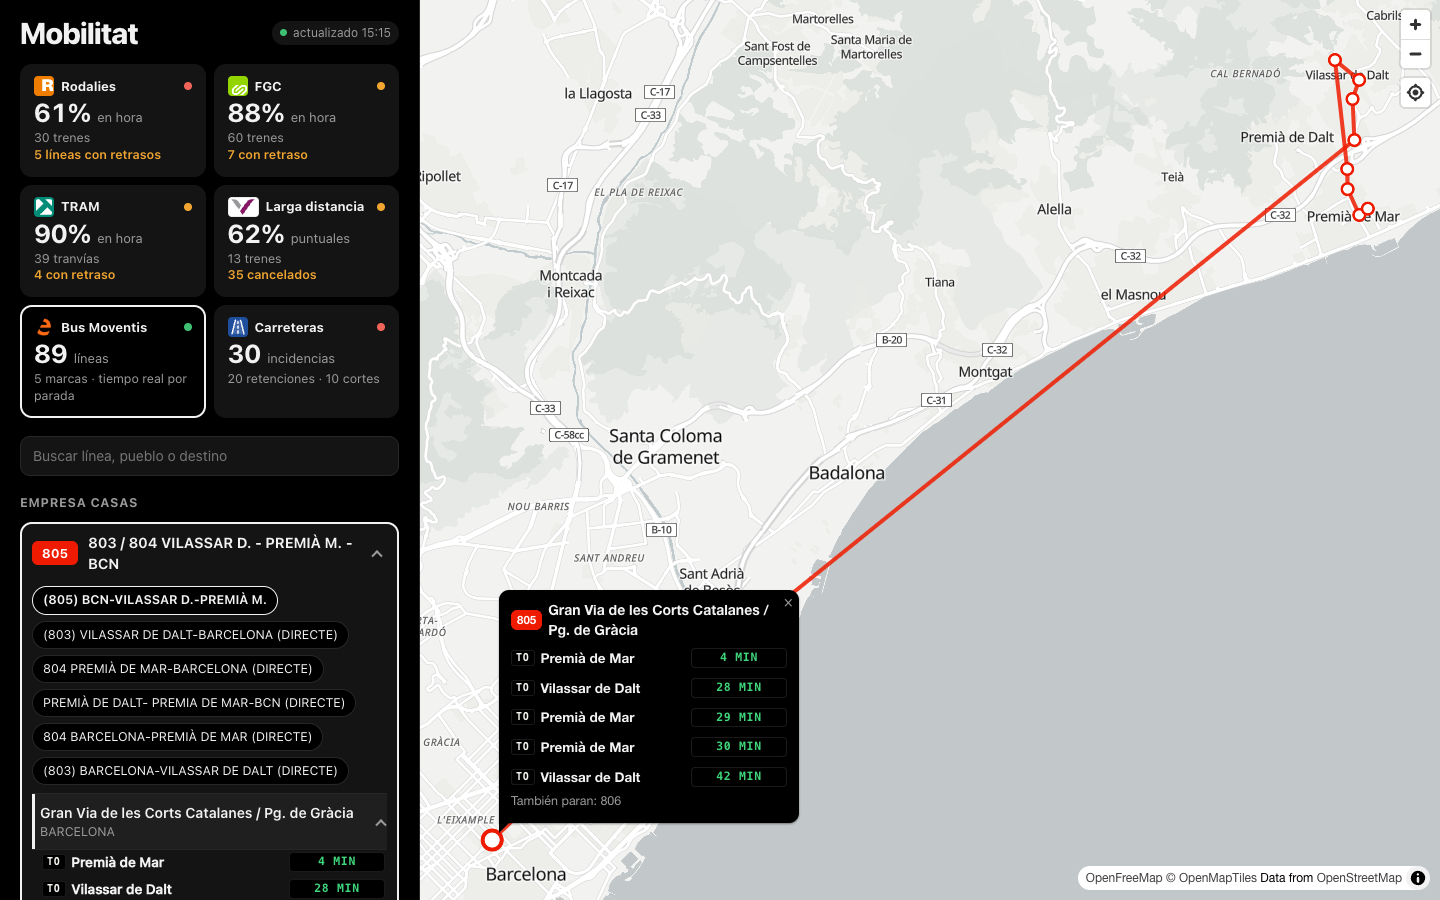
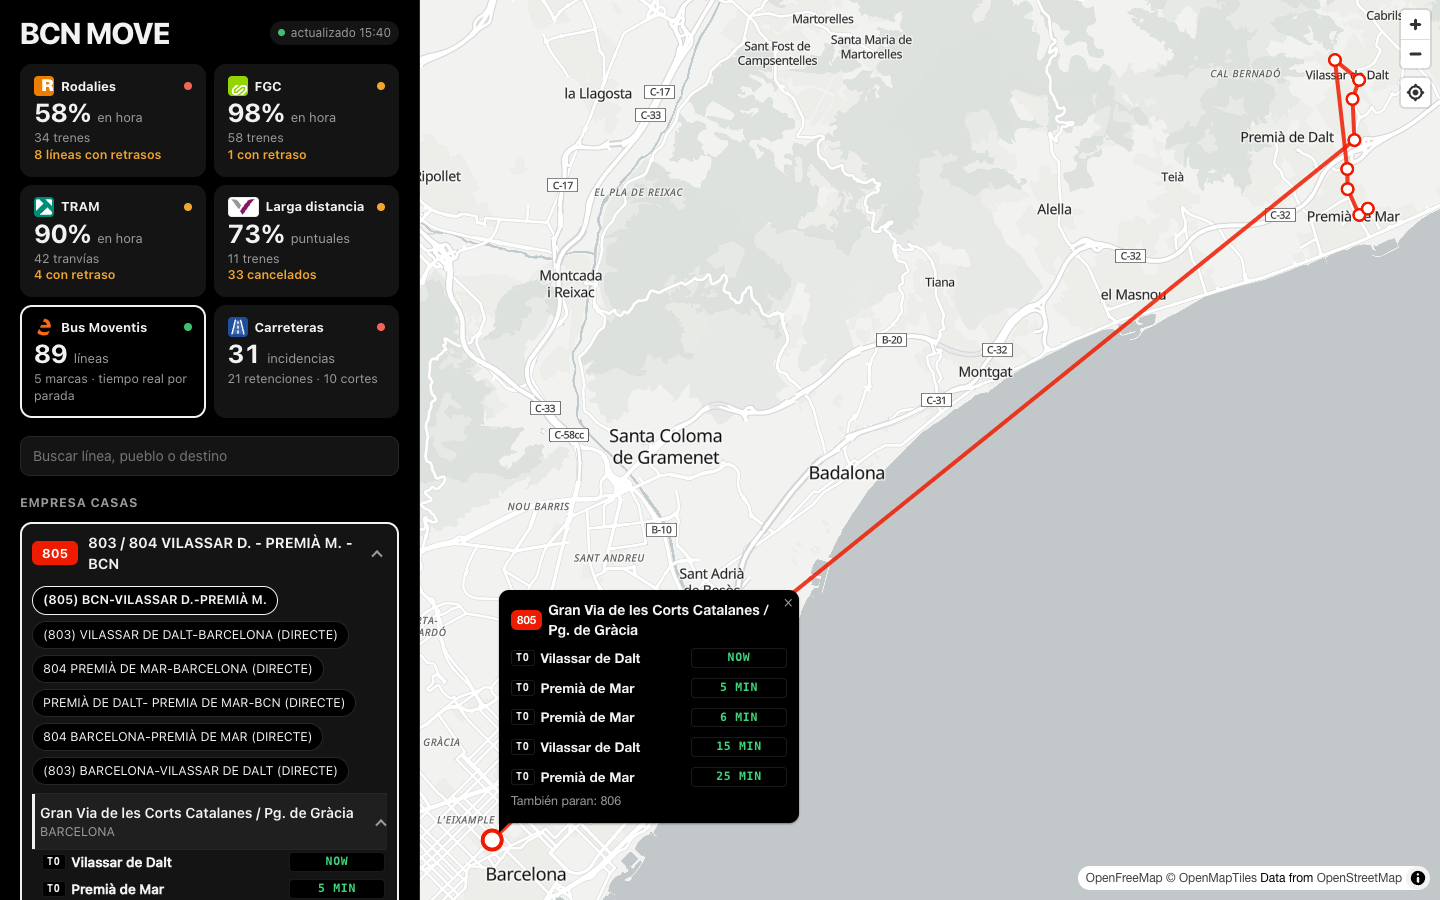
Cambia el nombre a BCN MOVE (página, README y capturas)

diff --git a/public/index.html b/public/index.html
@@ -3,7 +3,7 @@
 <head>
   <meta charset="utf-8">
   <meta name="viewport" content="width=device-width, initial-scale=1">
-  <title>Mobilitat</title>
+  <title>BCN MOVE</title>
   <meta name="description" content="Rodalies, FGC, AVE y carreteras de Catalunya en directo, a partir de datos abiertos oficiales.">
   <link rel="stylesheet" href="https://unpkg.com/maplibre-gl@4.7.1/dist/maplibre-gl.css">
   <link rel="stylesheet" href="style.css">
@@ -13,7 +13,7 @@
     <aside class="panel" aria-label="Estado de la red">
       <div class="panel-top">
       <header class="head">
-        <h1 class="brand">Mobilitat</h1>
+        <h1 class="brand">BCN MOVE</h1>
         <span class="upd" id="upd">cargando…</span>
       </header>
 

diff --git a/README.md b/README.md
@@ -1,4 +1,4 @@
-# Mobilitat
+# BCN MOVE
 
 Trenes, tranvías, autobuses y carreteras de Catalunya en directo: Rodalies, FGC, TRAM, AVE y larga distancia, bus Moventis e incidencias del Servei Català de Trànsit, todo a partir de datos abiertos oficiales.
 
